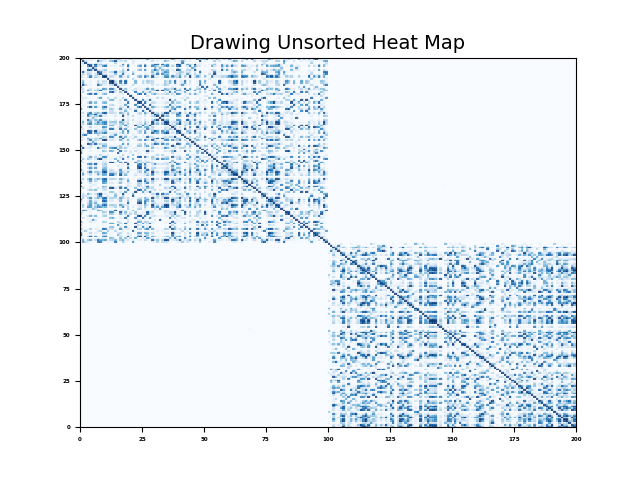
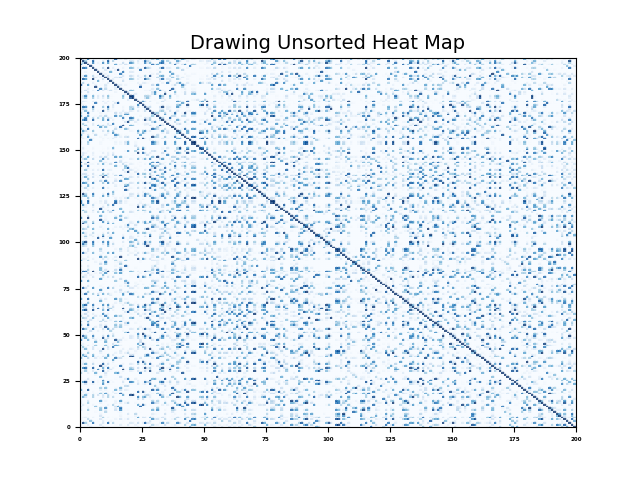
update unsorted image

Changed region(s): [[0.125, 0.125, 0.9062, 0.9062]]

diff --git a/README.md b/README.md
@@ -20,8 +20,11 @@ lp.plot_line(x, y, 'Title Here', 'X axis', 'Y axis', imgText=textstr)#, outpath)
 
 ## Example Heat Map Usage
 ```python
+import numpy as np
 from wplotlib import heatMap
 from sklearn.cluster import SpectralClustering
+from scipy.sparse import coo_matrix
+from sklearn.utils import shuffle
 
 X1 = np.random.randn(100,2)
 X2 = np.random.randn(100,2) + 5
@@ -30,6 +33,10 @@ X = np.vstack((X1,X2))
 Y1 = np.ones(100)
 Y2 = np.zeros(100)
 Y = np.hstack((Y1,Y2))
+
+X_sparse = coo_matrix(X)
+X, X_sparse, y = shuffle(X, X_sparse, Y, random_state=0) 
+
 
 clf = SpectralClustering(n_clusters=2)
 allocation = clf.fit_predict(X)
